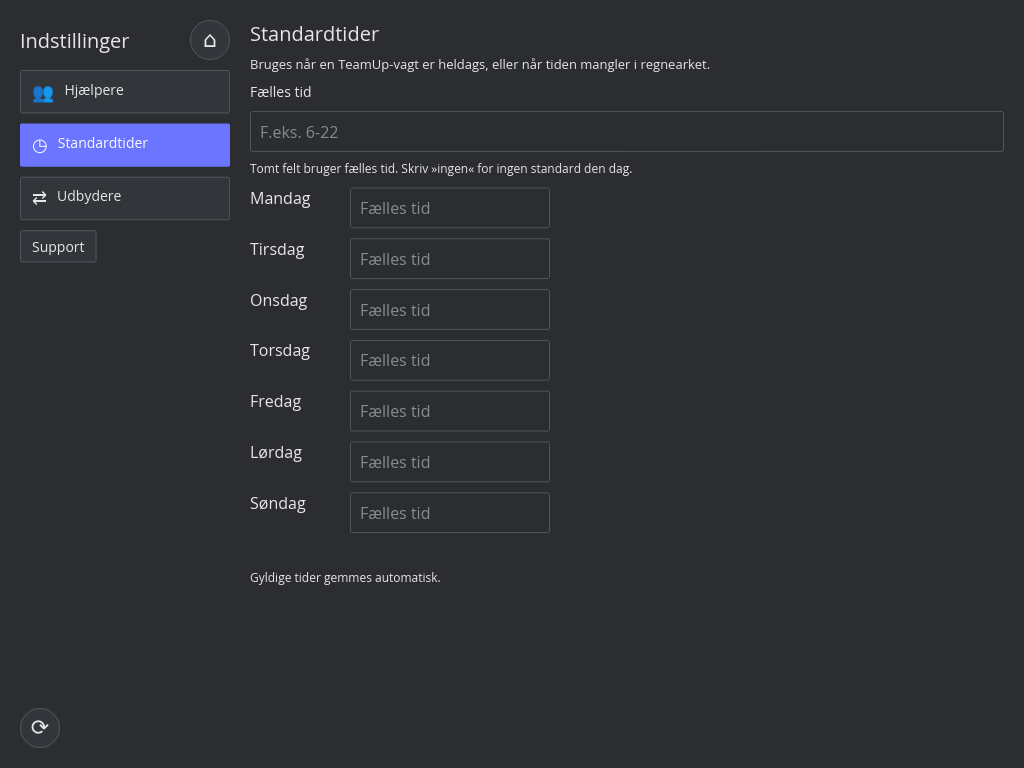
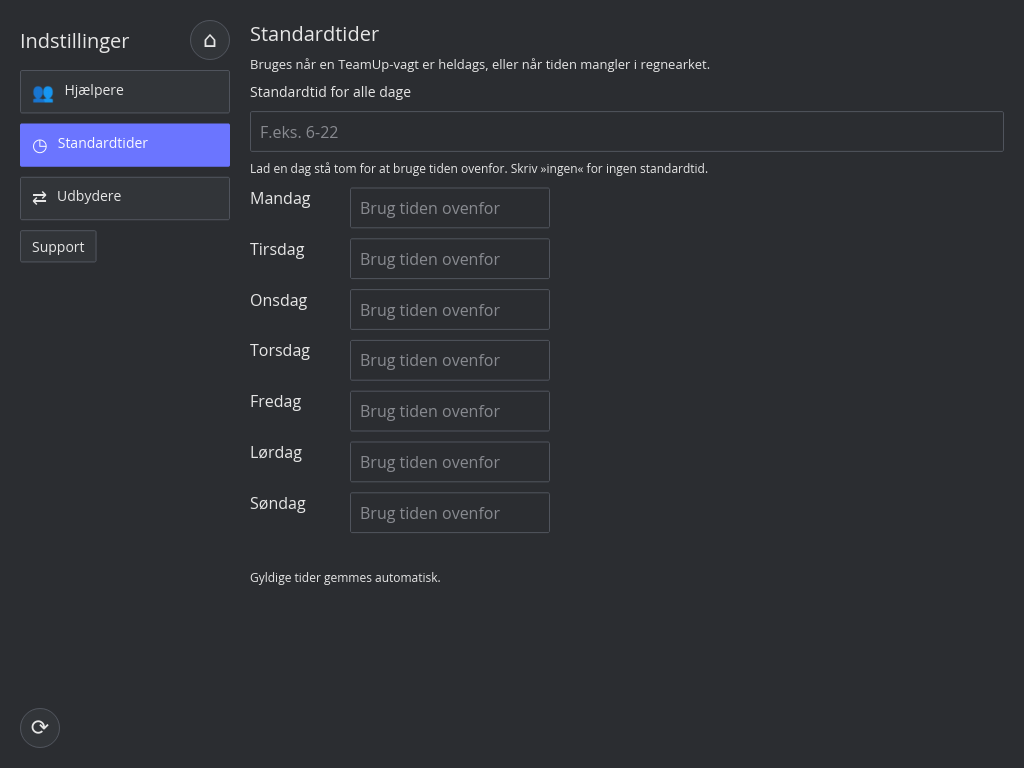
Clarify default standard time labels

diff --git a/desktop/src/setup.rs b/desktop/src/setup.rs
@@ -207,7 +207,7 @@ impl SetupUi {
         ]
         .spacing(10);
         content = content
-            .push(text("Fælles tid").size(14))
+            .push(text("Standardtid for alle dage").size(14))
             .push(
                 text_input("F.eks. 6-22", &self.standard_default)
                     .id(iced::widget::Id::new(STANDARD_DEFAULT_ID))
@@ -215,7 +215,7 @@ impl SetupUi {
                     .padding(10),
             )
             .push(
-                text("Tomt felt bruger fælles tid. Skriv »ingen« for ingen standard den dag.")
+                text("Lad en dag stå tom for at bruge tiden ovenfor. Skriv »ingen« for ingen standardtid.")
                     .size(12),
             );
         for (index, day) in [
@@ -227,7 +227,7 @@ impl SetupUi {
             content = content.push(
                 row![
                     text(*day).width(Length::Fixed(90.0)),
-                    text_input("Fælles tid", &self.standard_days[index])
+                    text_input("Brug tiden ovenfor", &self.standard_days[index])
                         .id(iced::widget::Id::new(STANDARD_DAY_IDS[index]))
                         .on_input(move |value| Message::StandardDay(index, value))
                         .padding(10)
